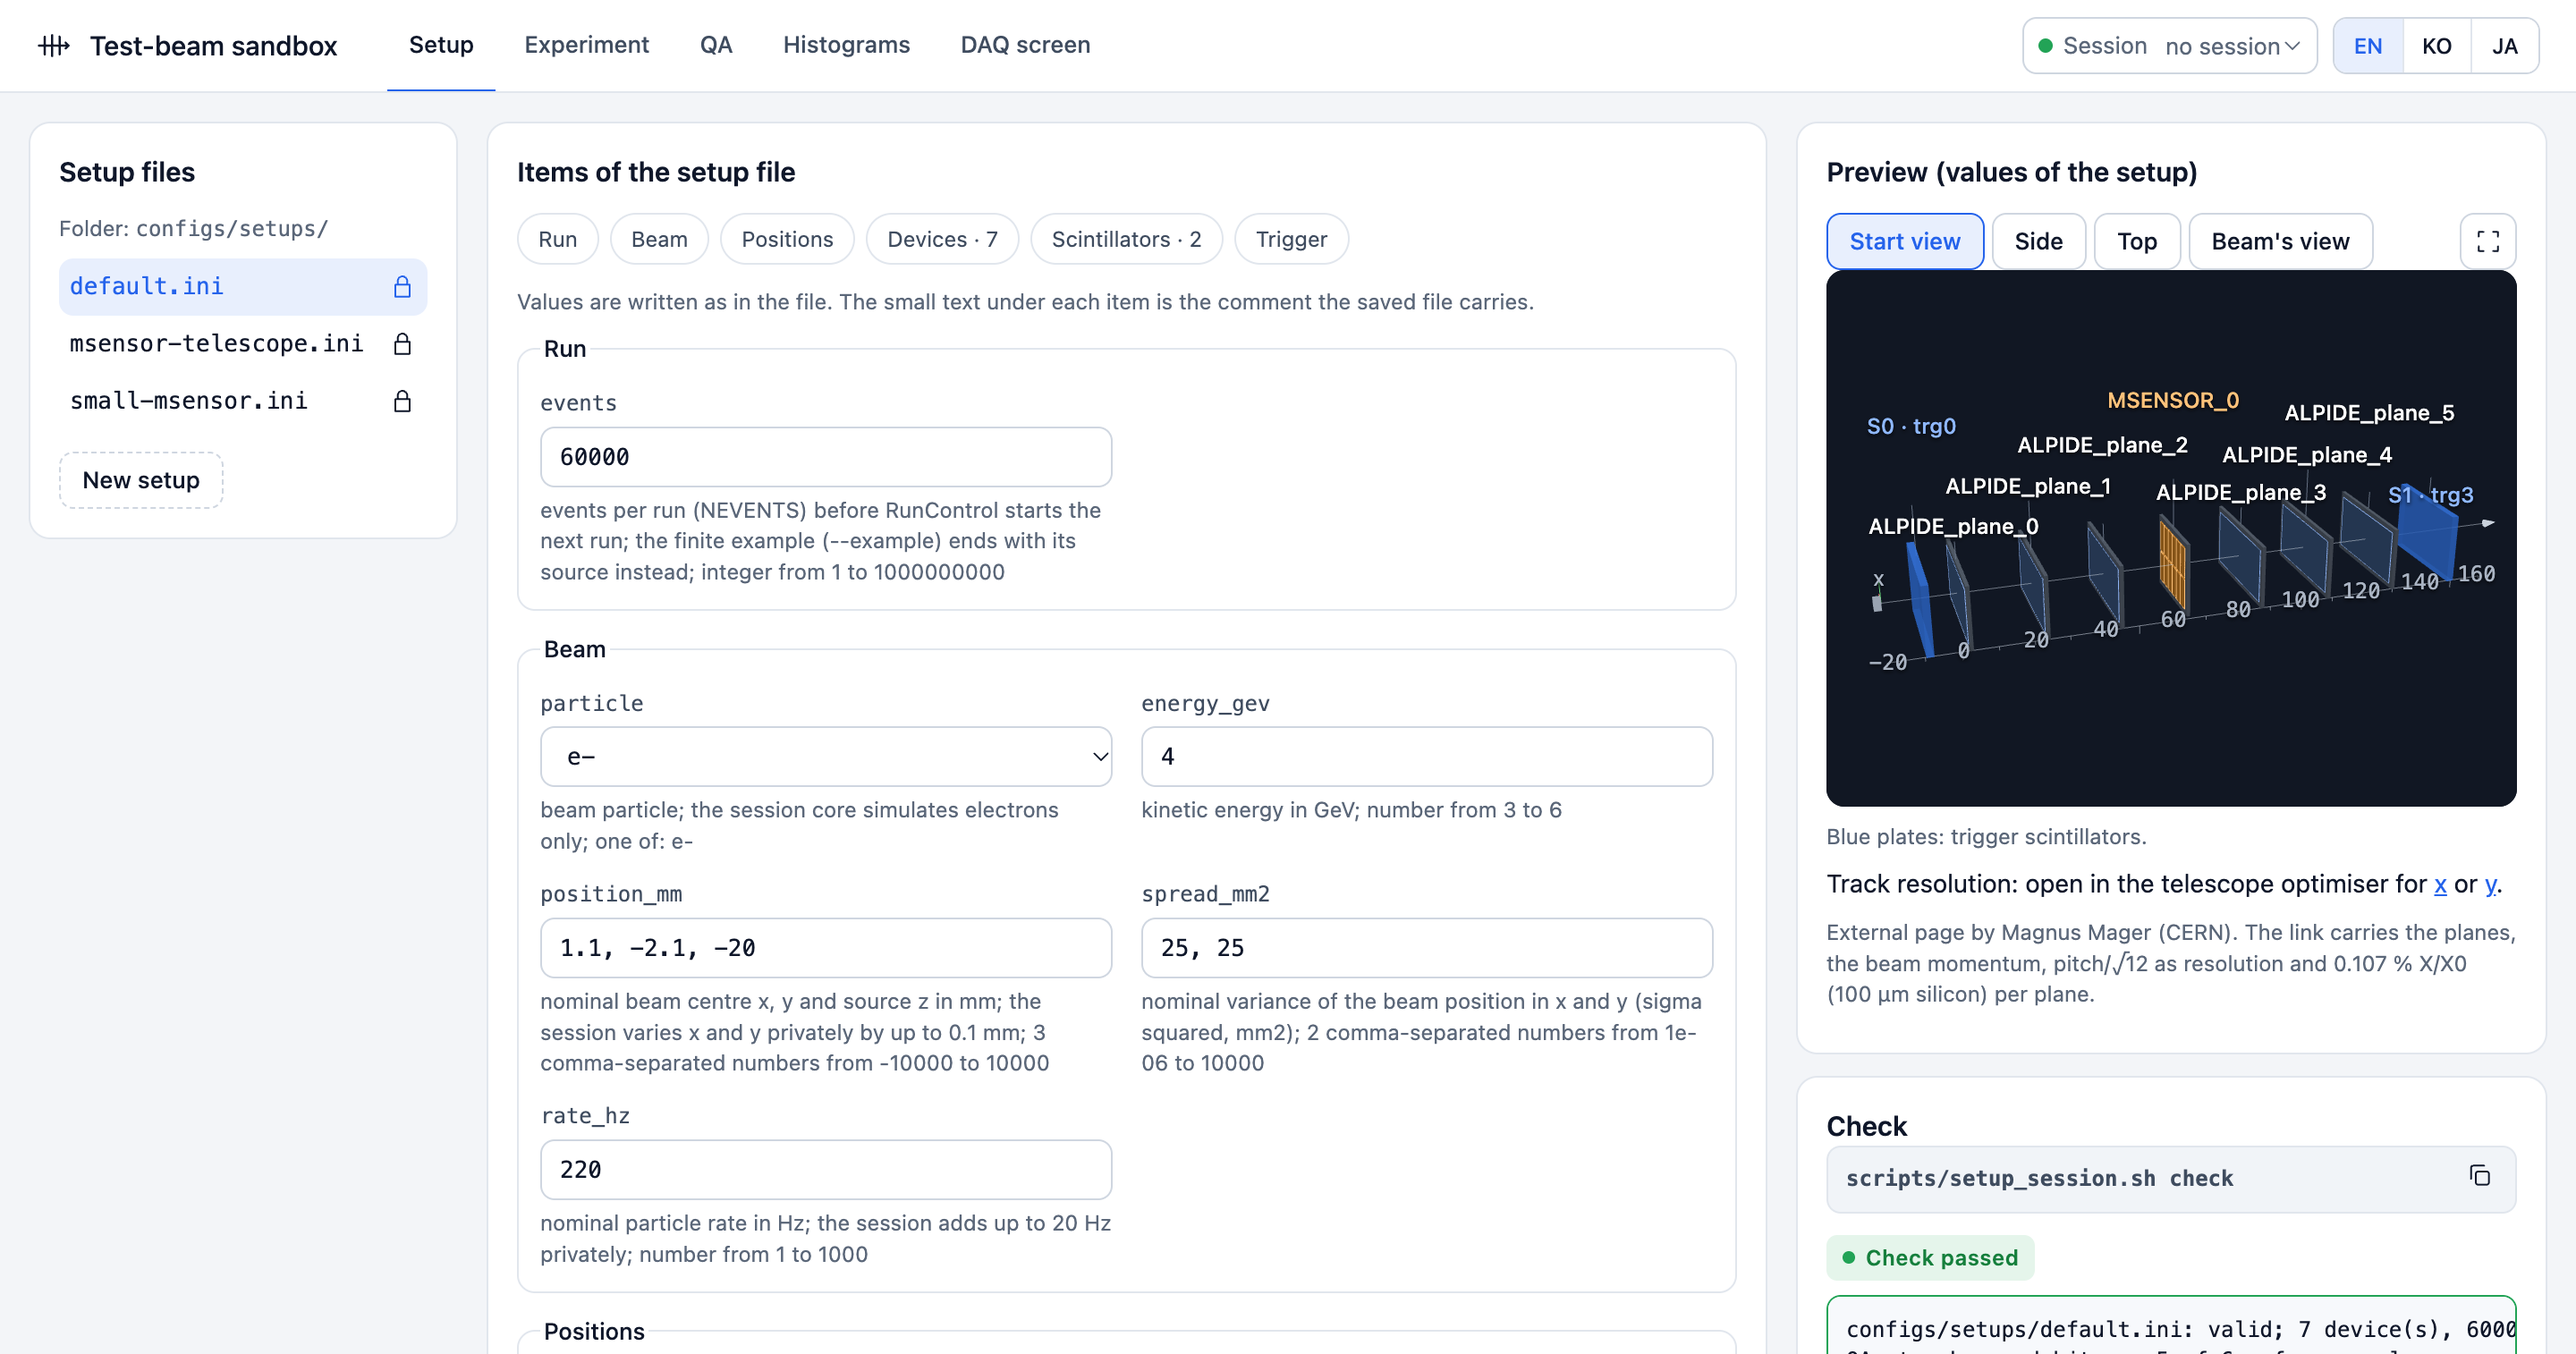
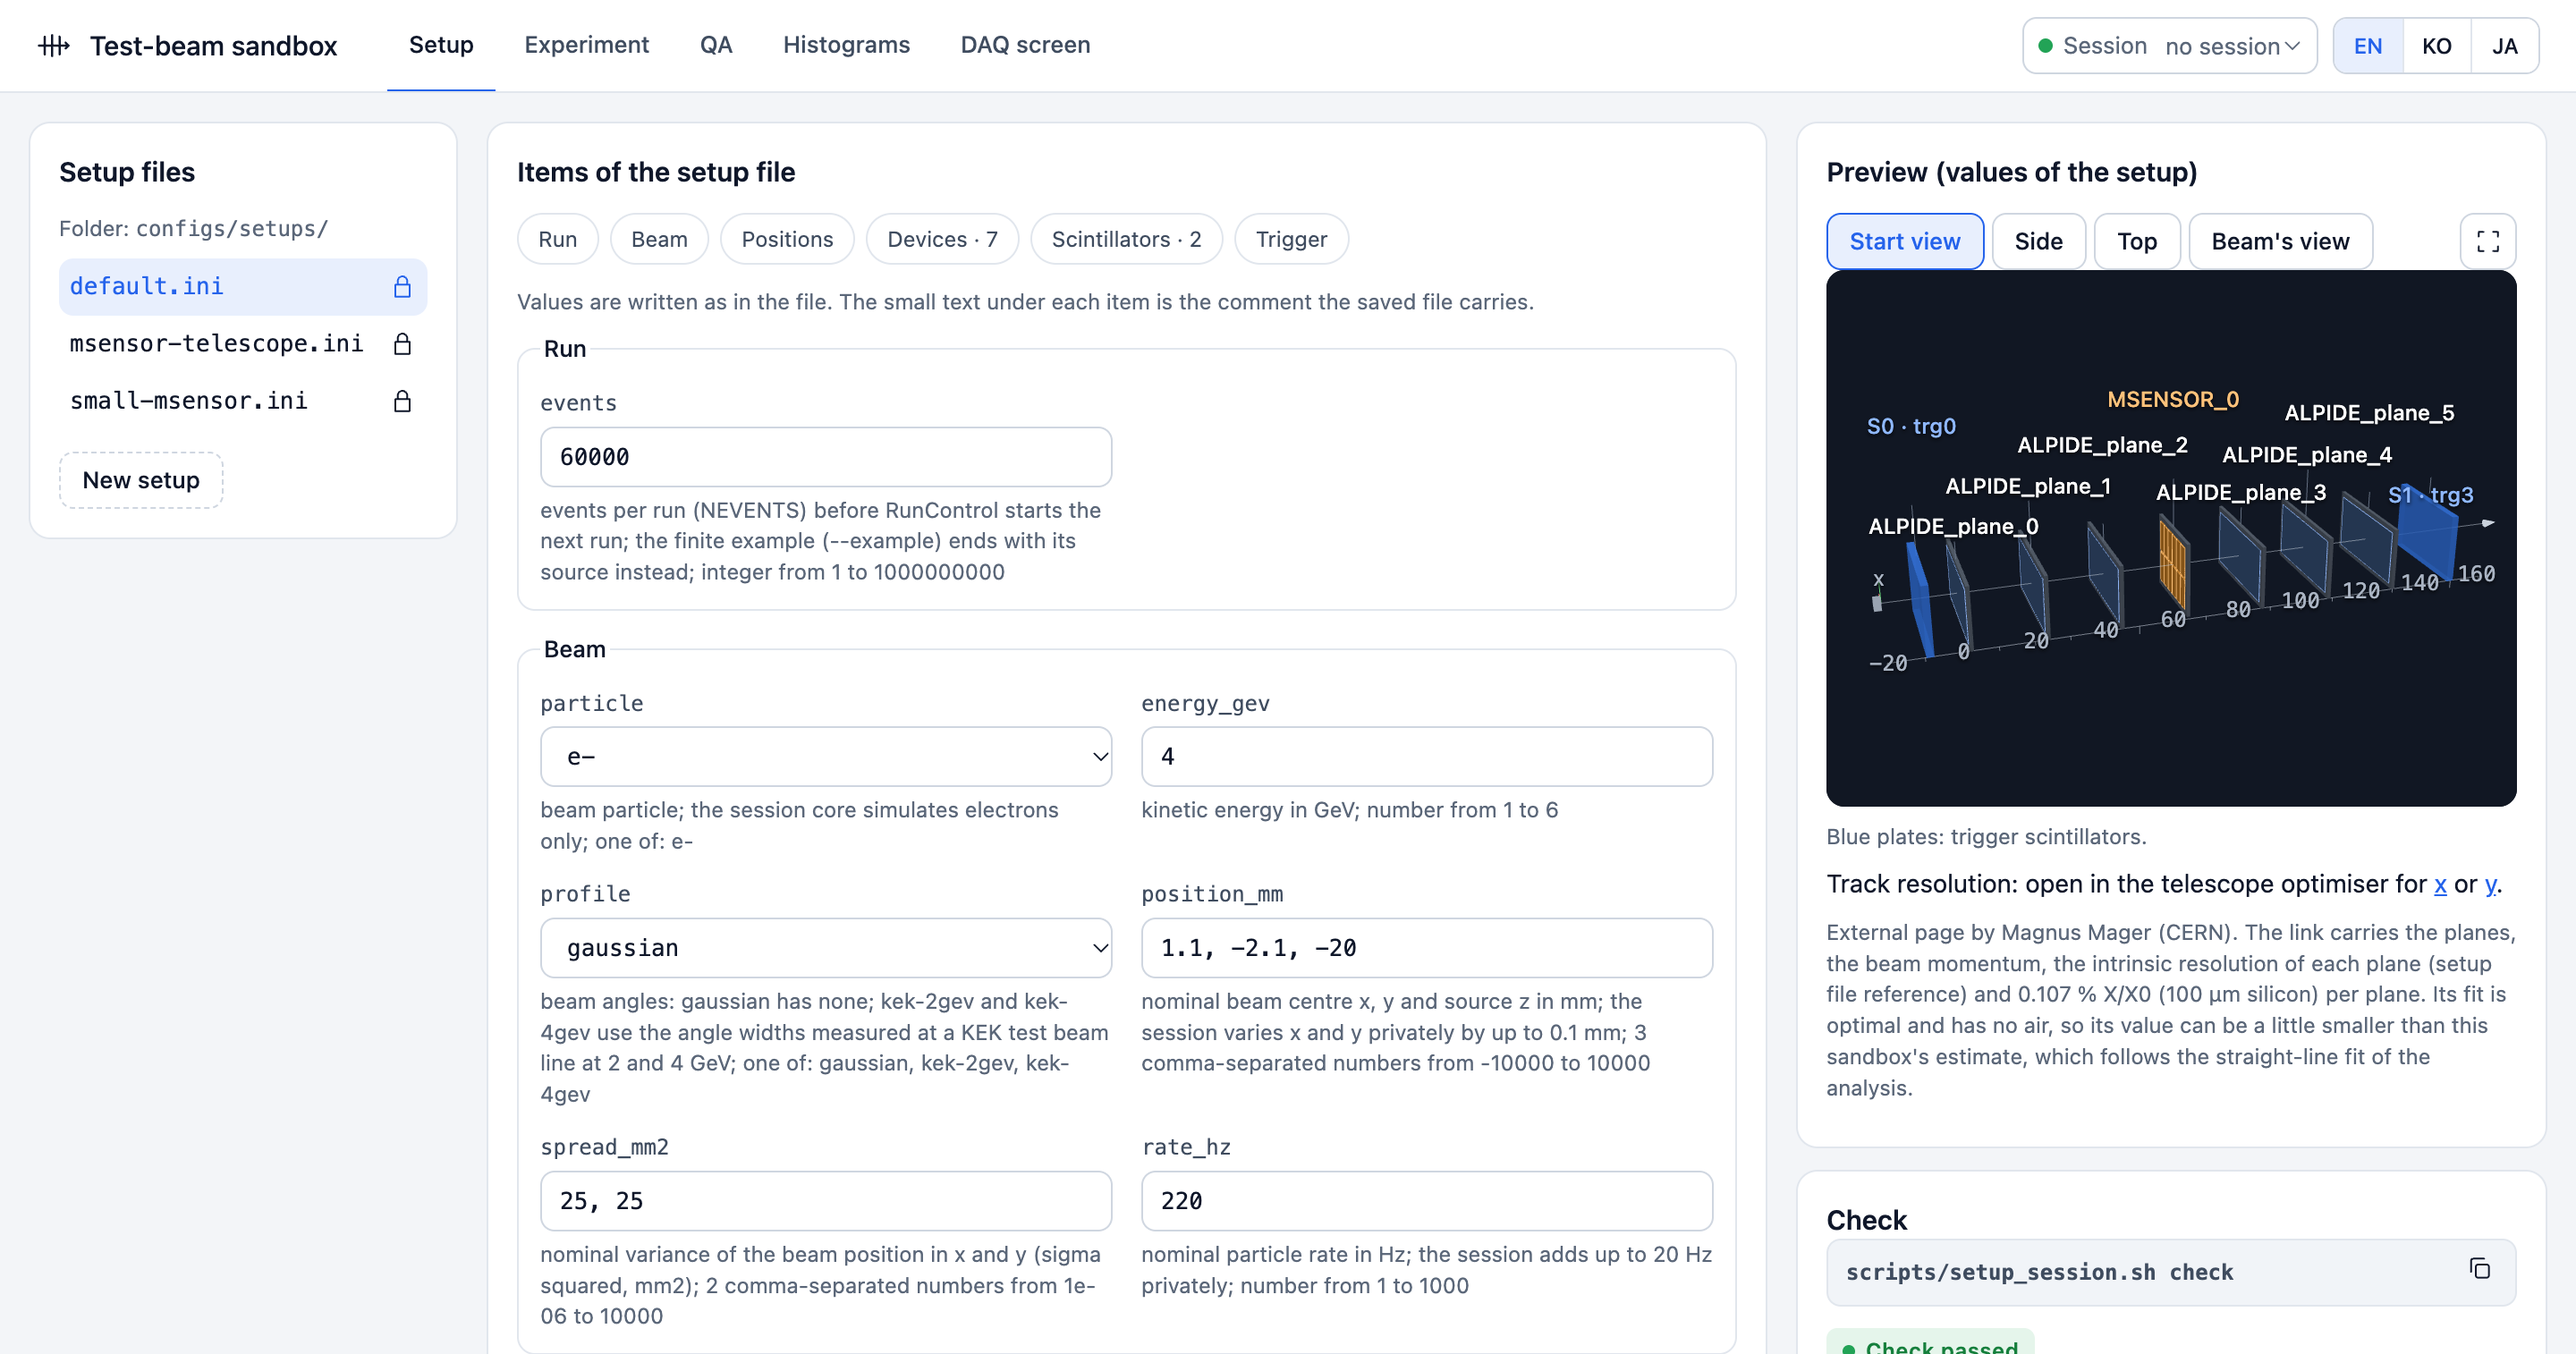
Polish the Korean and Japanese wording and update the setup tab image

diff --git a/docs/ja/setup-file.md b/docs/ja/setup-file.md
@@ -60,7 +60,7 @@
 | セクション | 項目 | 既定値 | 受け付ける値 |
 |---|---|---|---|
 | `[scintillator N]` | `channel` | 必須 | 重複しない `0`–`3` |
-| `[scintillator N]` | `position_mm` | 必須 | 板の中心 x, y, z（mm）、ビーム出発点より下流 |
+| `[scintillator N]` | `position_mm` | 必須 | 板の中心 x, y, z（mm）、ビーム源より下流 |
 | `[scintillator N]` | `shape` | `rectangle` | `rectangle` または `disc` |
 | `[scintillator N]` | `size_mm` | `30, 20` | 長方形の幅と高さまたは円板の直径、`1`–`200` mm |
 | `[scintillator N]` | `hole_mm` | `0` | 中央の穴の幅と高さまたは直径、板より小さい値 |
@@ -70,7 +70,7 @@
 
 ## QA
 
-QA は基準面からトラックを再構成します。基準面が少なくとも 3 枚必要です。トラックには 5 面のヒットが必要で、基準面が 6 枚より少ない場合は基準面の数より一つ少ない面が必要ですが、3 より少なくはなりません。msensor DUT がない場合、QA はトラックの数のみを報告します。オフのタイルは解析でマスクされるため、効率はオンのタイルだけで計算されます。QA はオフのタイルを一行で示します。有限サンプルには msensor が必要です。サンプルの source が終了したことを msensor producer が知らせるためです。
+QA は基準面からトラックを再構成します。基準面が少なくとも 3 枚必要です。トラックには 5 面のヒットが必要で、基準面が 6 枚より少ない場合は基準面の数より一つ少ない数の面のヒットが必要ですが、3 より少なくはなりません。msensor DUT がない場合、QA はトラックの数のみを報告します。オフのタイルは解析でマスクされるため、効率はオンのタイルだけで計算されます。QA はオフのタイルを一行で示します。有限サンプルには msensor が必要です。サンプルの source が終了したことを msensor producer が知らせるためです。
 
 ## セットアップファイルにないもの
 

diff --git a/docs/ko/session-run.md b/docs/ko/session-run.md
@@ -12,7 +12,7 @@
 
 ## 취득과 분석
 
-빌드, 시작, 취득, 종료와 분석은 [시작 안내](../../README.ko.md)의 명령을 따릅니다. 세션의 빔은 처음에 꺼져 있습니다. 분석에는 공개 EUDAQ 변환기, EventLoaderEUDAQ2, clustering, tracking, DUT association, efficiency와 출력 모듈을 사용합니다. 고정된 Corryvreckan revision은 보조 30 µm pitch histogram에서 ROOT bin 경고를 1번 낼 수 있습니다. 다른 변환 오류가 발생하면 실패로 처리합니다. data event가 없는 raw 데이터는 분석하지 않습니다.
+빌드, 시작, 취득, 종료와 분석은 [시작 안내](../../README.ko.md)의 명령을 따릅니다. 세션의 빔은 처음에 꺼져 있습니다. 분석에는 공개 EUDAQ 변환기, EventLoaderEUDAQ2, clustering, tracking, DUT association, efficiency와 출력 모듈을 사용합니다. 고정된 Corryvreckan revision은 보조 30 µm pitch histogram에서 ROOT bin 경고를 1번 낼 수 있습니다. 다른 변환 오류가 발생하면 실패로 처리합니다. data event가 없는 raw 파일은 분석하면 안 됩니다.
 
 ![터미널에서 실행 중인 세션을 정렬하고 분석합니다.](../images/terminal-analysis.png)
 
